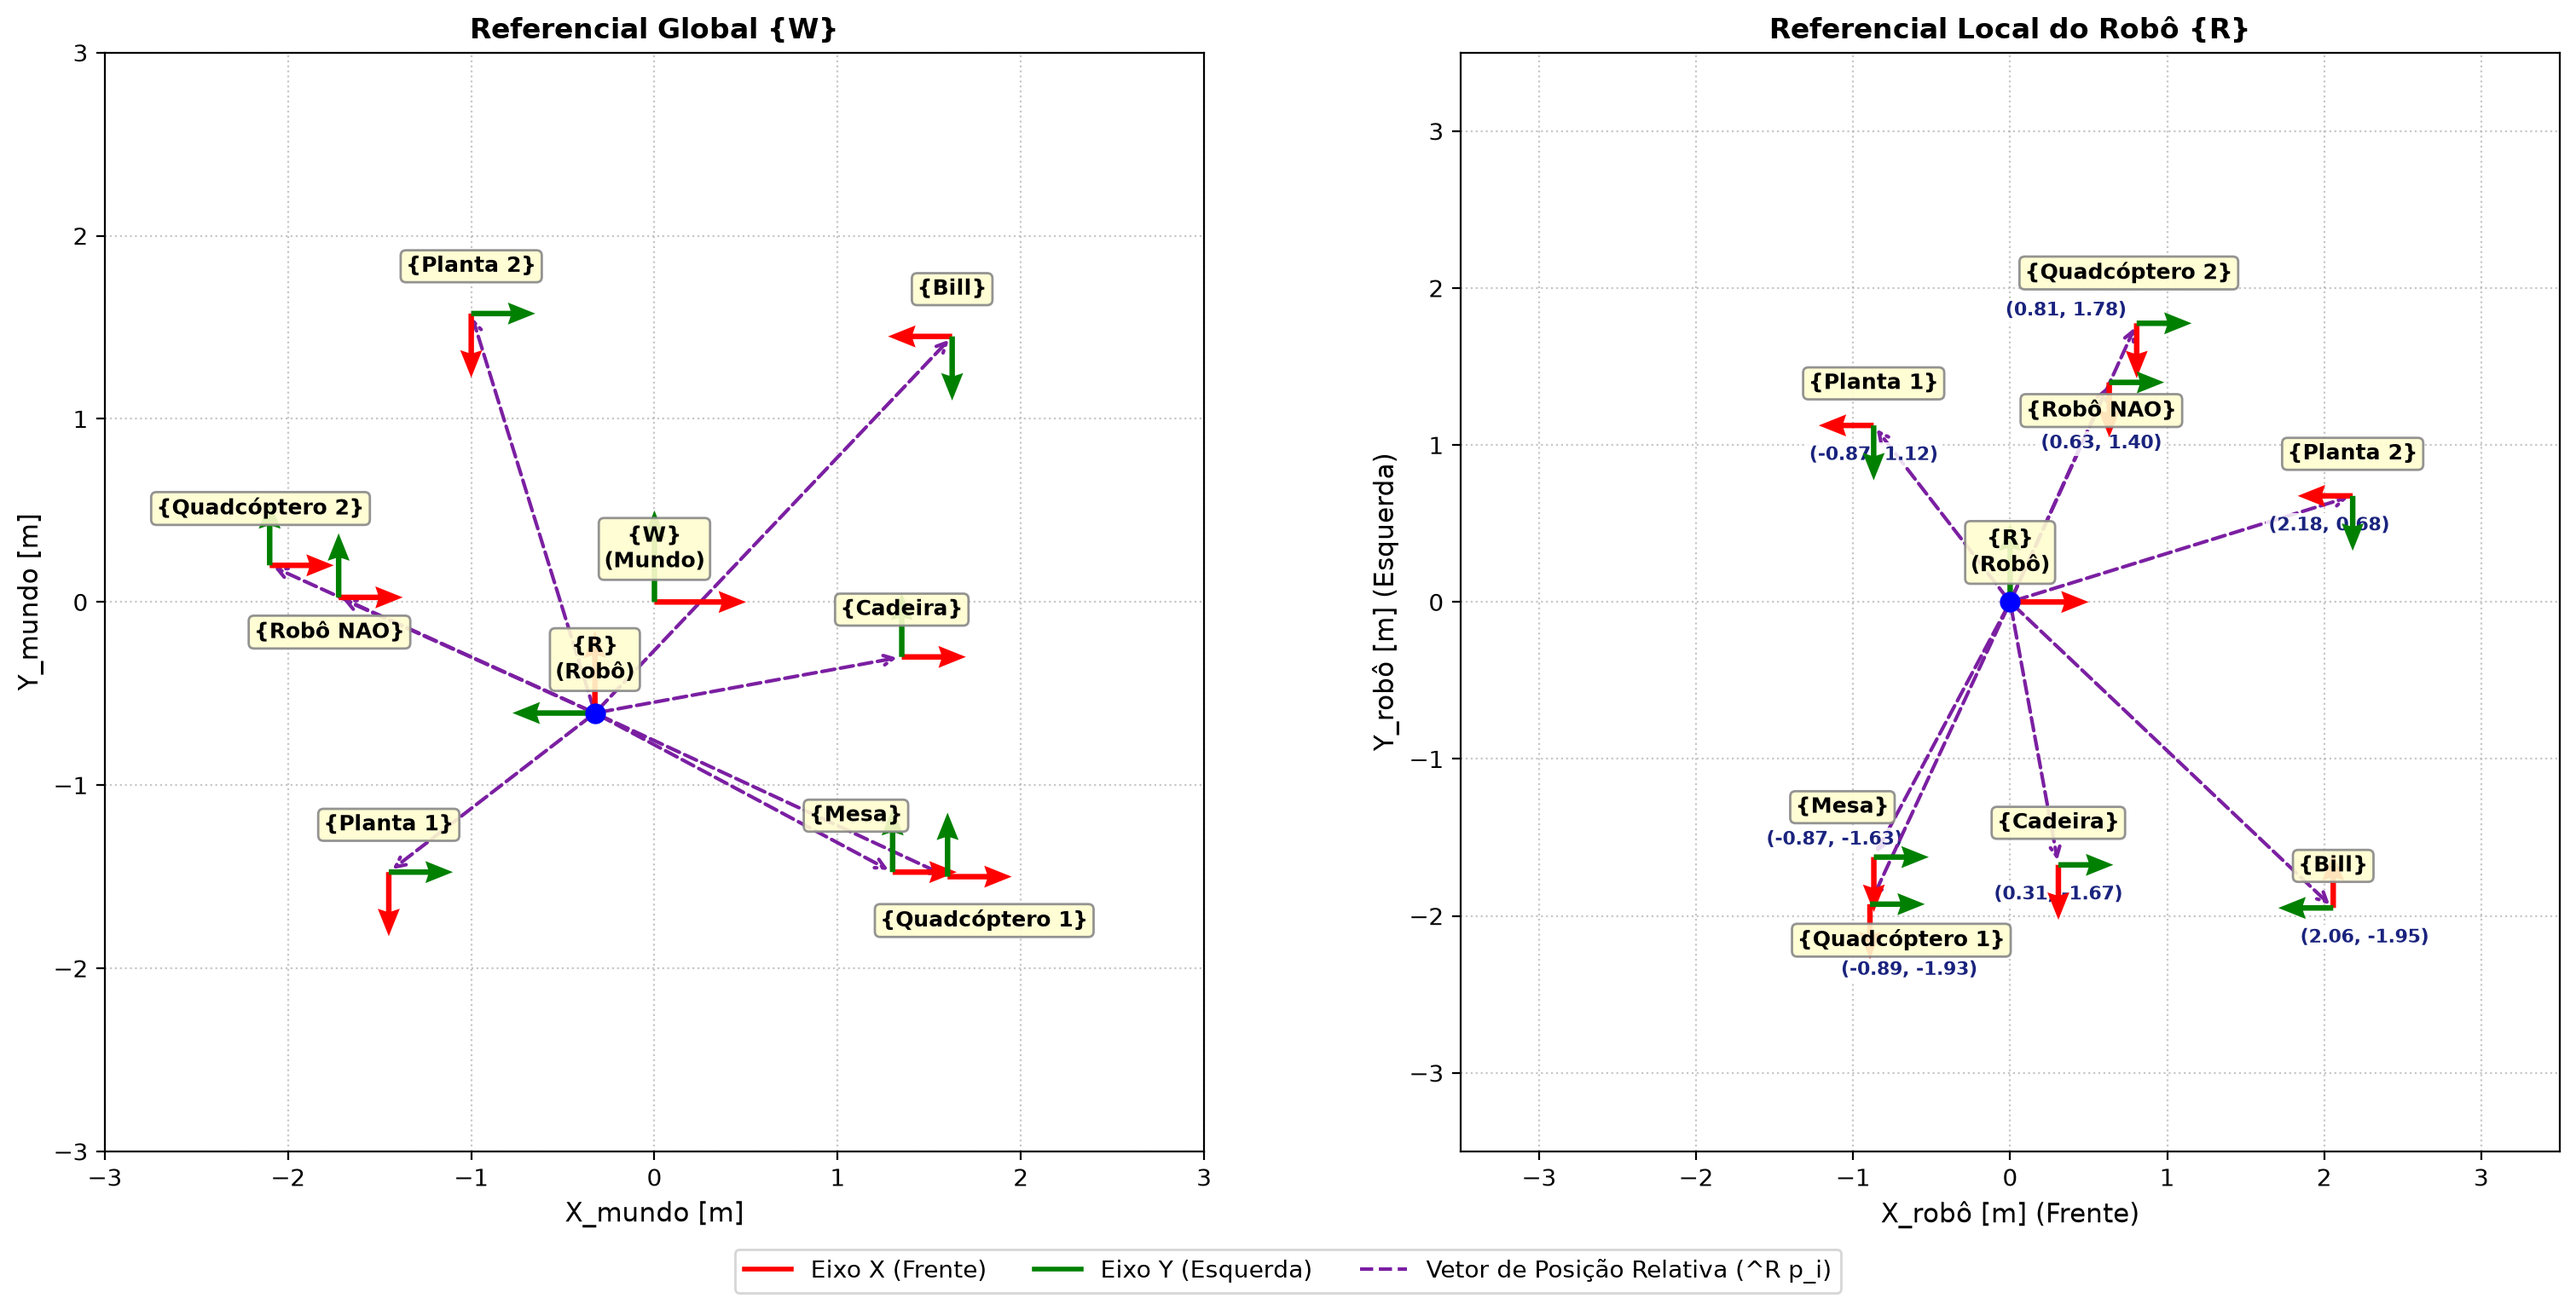
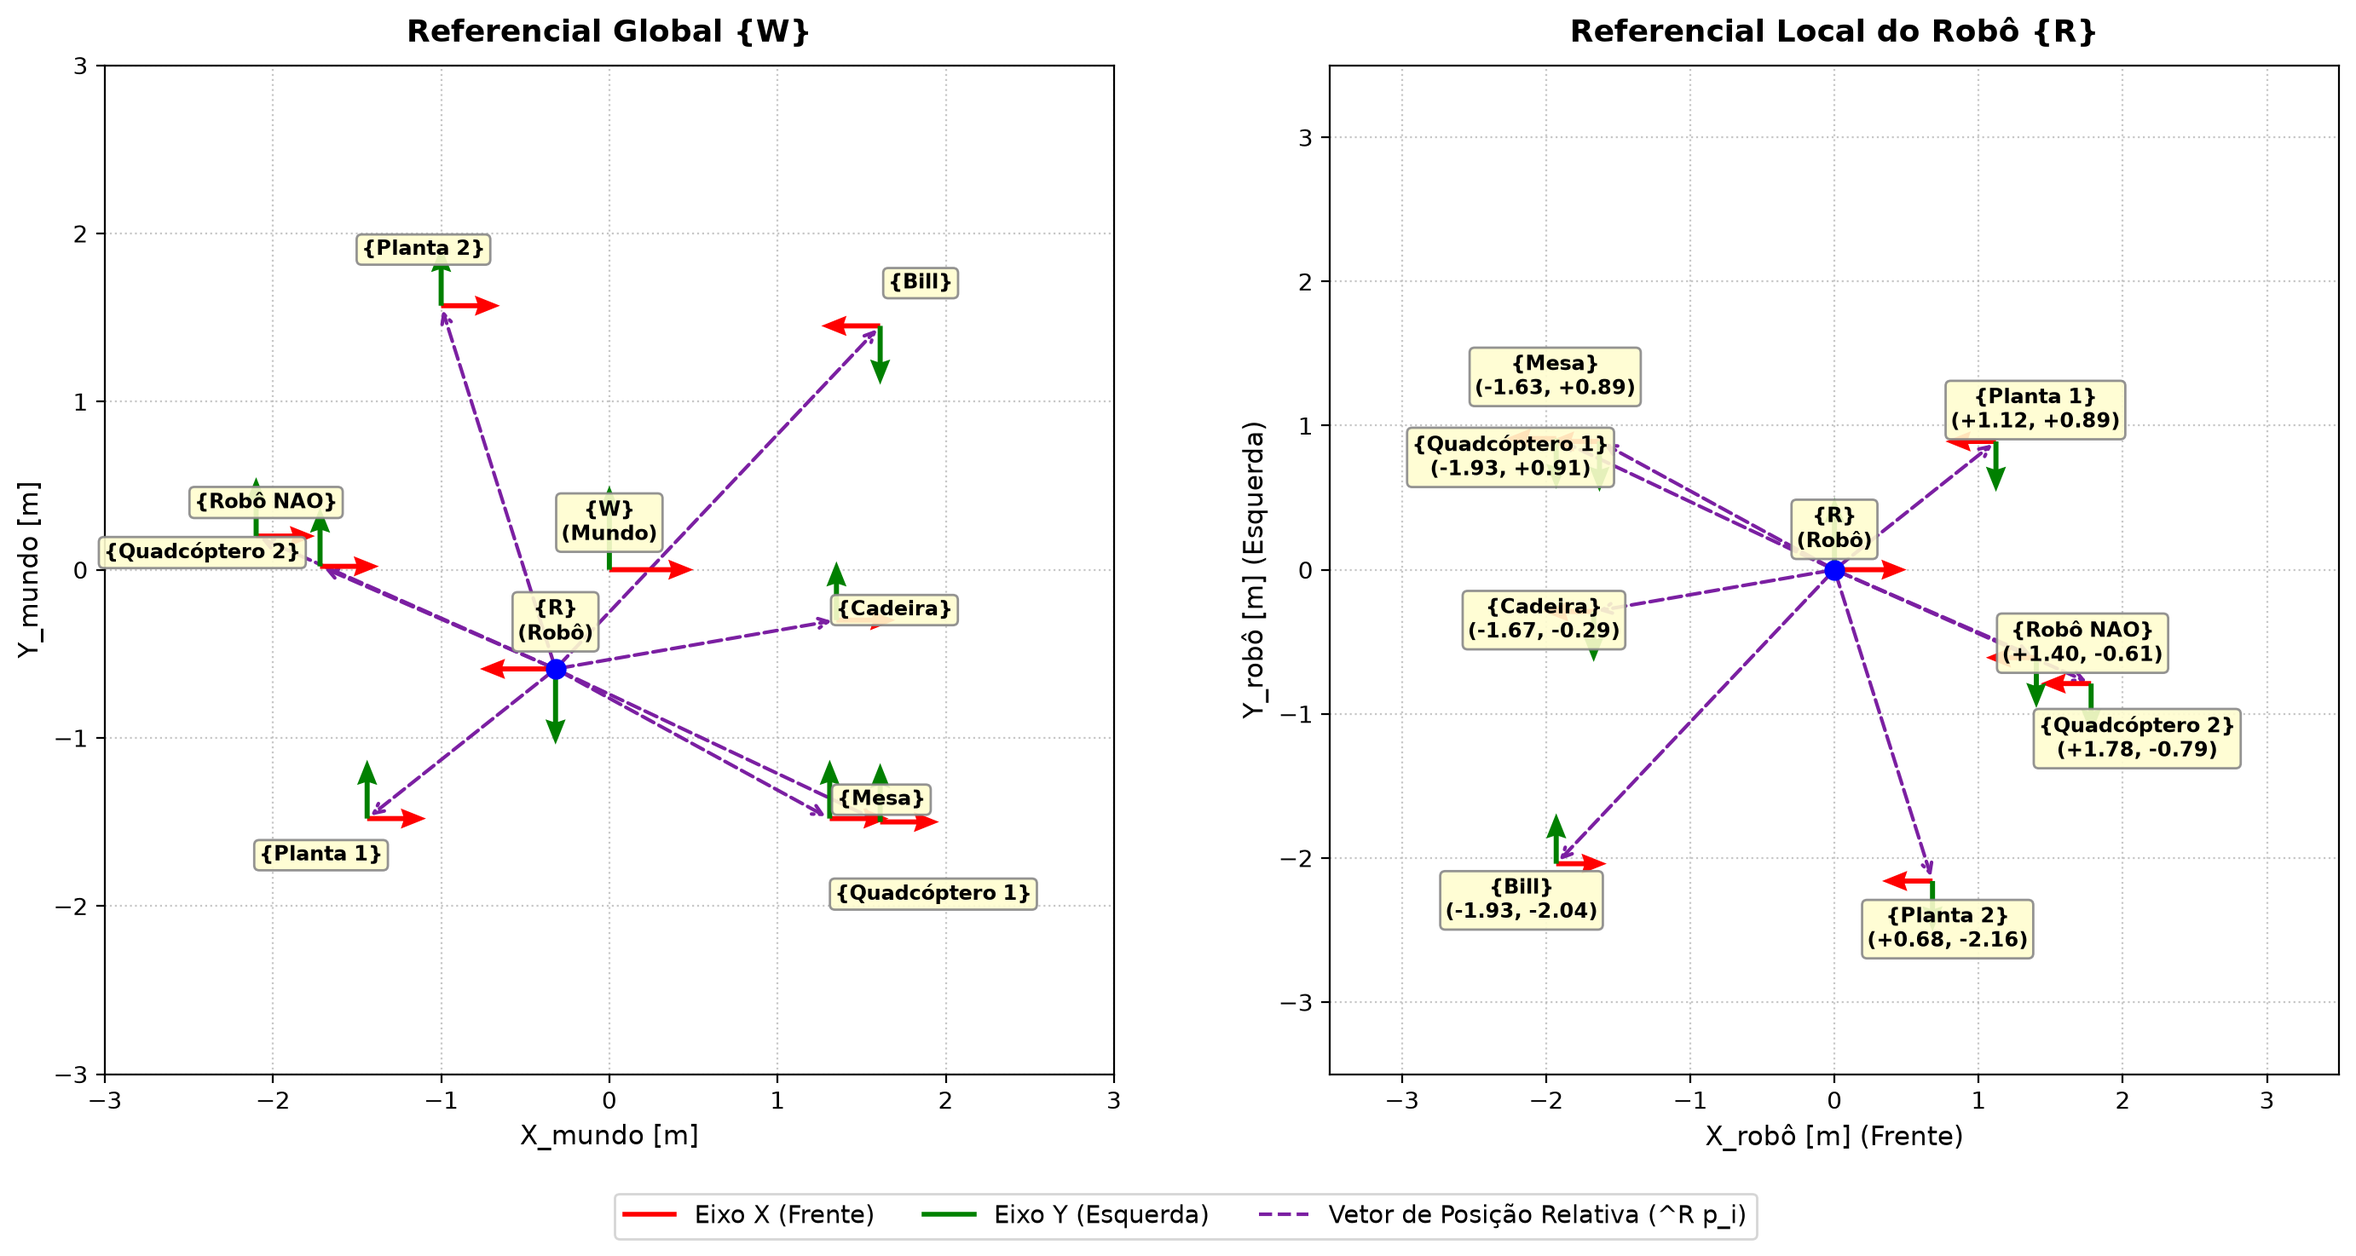
:bug: fix: fix robot positioning relative to World

diff --git a/tp1/main.py b/tp1/main.py
@@ -1,7 +1,9 @@
+import argparse
 import os
 import time
 import numpy as np
 import matplotlib.pyplot as plt
+from matplotlib.lines import Line2D
 from coppeliasim_zmqremoteapi_client import RemoteAPIClient
 
 import utils
@@ -17,21 +19,22 @@ def get_global_pose(sim, handle):
 
 
 def main():
+    parser = argparse.ArgumentParser(description="Transformações Homogêneas - TP1 Robótica Móvel")
+    parser.add_argument("--output", "-o", default="images/questao3.png", help="Caminho do arquivo de saída da imagem")
+    args = parser.parse_args()
+
+    os.makedirs(os.path.dirname(args.output) or ".", exist_ok=True)
+
     # Conexão com o CoppeliaSim via ZeroMQ Remote API
     client = RemoteAPIClient()
     sim = client.require('sim')
 
-    # Garante que o diretório de imagens existe
-    os.makedirs("images", exist_ok=True)
-
-    # Parar simulação se estiver rodando para garantir estado consistente
     initial_sim_state = sim.getSimulationState()
     if initial_sim_state != 0:
         sim.stopSimulation()
         time.sleep(1)
 
-    # Lista de elementos na cena para mapear
-    # Suporta caminhos padrão e variações de indexação no CoppeliaSim
+    # Lista de elementos a serem mapeados na cena
     object_specs = [
         ("Pioneer 3DX (Robô)", ["/PioneerP3DX"]),
         ("Bill", ["/Bill"]),
@@ -59,13 +62,11 @@ def main():
 
     pioneer_handle = handles["Pioneer 3DX (Robô)"]
 
-    # Inicia a simulação
     sim.startSimulation()
     time.sleep(0.5)
 
-    # 1. Recuperar configuração global do robô q = [x, y, theta]
+    # 1. Configuração global e matrizes do robô
     xr, yr, thetar = get_global_pose(sim, pioneer_handle)
-    q_robot = np.array([xr, yr, thetar])
     T_world_robot = utils.homogeneousTransformationMatrix(xr, yr, thetar)
     T_robot_world = utils.inverseHomogeneousMatrix(T_world_robot)
 
@@ -81,21 +82,16 @@ def main():
     print(f"{'Elemento':<22} | {'Posição Global (x, y, theta)':<30} | {'Posição Local no Robô (^R x, ^R y, ^R theta)'}")
     print("-" * 80)
 
-    # 2. Calcular matrizes homogêneas para todos os outros elementos no referencial do robô
+    # 2. Matrizes homogêneas dos outros elementos no referencial do robô
     elements_data = []
-
     for name, handle in handles.items():
         if name == "Pioneer 3DX (Robô)":
             continue
 
-        # Recupera pose global do elemento via ZeroMQ API
         xi, yi, thetai = get_global_pose(sim, handle)
         T_world_elem = utils.homogeneousTransformationMatrix(xi, yi, thetai)
-
-        # Matriz no referencial local do robô: ^R T_elem = (^W T_R)^-1 * ^W T_elem
         T_robot_elem = utils.transformToRobotFrame(T_world_robot, T_world_elem)
 
-        # Extrair posição e orientação locais
         x_local = T_robot_elem[0, 3]
         y_local = T_robot_elem[1, 3]
         theta_local = np.arctan2(T_robot_elem[1, 0], T_robot_elem[0, 0])
@@ -103,8 +99,6 @@ def main():
         elements_data.append({
             "name": name,
             "global_pos": (xi, yi, thetai),
-            "T_world": T_world_elem,
-            "T_robot": T_robot_elem,
             "local_pos": (x_local, y_local, theta_local)
         })
 
@@ -115,103 +109,72 @@ def main():
     print("=" * 80)
 
     # 3. Plotagem dos referenciais e vetores de relacionamento
-    fig, (ax_global, ax_local) = plt.subplots(1, 2, figsize=(16, 7.5))
+    fig, (ax_global, ax_local) = plt.subplots(1, 2, figsize=(17, 8))
 
-    # Dicionário de offsets para os rótulos de modo a evitar sobreposição visual
-    custom_offsets = {
-        "Mesa": (-0.20, 0.25),
-        "Quadcóptero 1": (+0.20, -0.30),
-        "Robô NAO": (-0.05, -0.25),
-        "Quadcóptero 2": (-0.05, 0.25),
-        "Bill": (0.0, 0.20),
-        "Cadeira": (0.0, 0.20),
-        "Planta 1": (0.0, 0.20),
-        "Planta 2": (0.0, 0.20)
-    }
+    # Limites simétricos centrados na origem (evita overflow e mantém o robô centralizado em {R})
+    global_points = [(0, 0), (xr, yr)] + [item["global_pos"][:2] for item in elements_data]
+    local_points = [(0, 0)] + [item["local_pos"][:2] for item in elements_data]
 
-    # --- (A) Gráfico no Referencial Global {W} ---
-    utils.plot_frame([0, 0], 0, ax=ax_global, axis_size=0.5, label="{W}\n(Mundo)", colors=('red', 'green'))
-    utils.plot_frame([xr, yr], thetar, ax=ax_global, axis_size=0.45, label="{R}\n(Robô)", colors=('red', 'green'))
+    L_global = max(3.0, float(np.max(np.abs(global_points))) + 0.6)
+    L_local = max(3.5, float(np.max(np.abs(local_points))) + 0.8)
+
+    # --- (A) Referencial Global {W} ---
+    utils.plot_frame([0, 0], 0, ax=ax_global, axis_size=0.5, label="{W}\n(Mundo)", colors=('red', 'green'), text_offset=(0.0, 0.28))
+    utils.plot_frame([xr, yr], thetar, ax=ax_global, axis_size=0.45, label="{R}\n(Robô)", colors=('red', 'green'), text_offset=(0.0, 0.28))
     ax_global.scatter([xr], [yr], color='blue', s=60, zorder=5)
 
     for item in elements_data:
         xi, yi, thetai = item["global_pos"]
         name = item["name"]
-        offset = custom_offsets.get(name, (0.0, 0.15))
+        offset = utils.get_label_offset(xi, yi, x_ref=xr, y_ref=yr, name=name)
         utils.plot_frame([xi, yi], thetai, ax=ax_global, axis_size=0.35, label=f"{{{name}}}", colors=('red', 'green'), text_offset=offset)
-        # Vetor do Robô para o Elemento
-        ax_global.annotate('', xy=(xi, yi), xytext=(xr, yr),
-                           arrowprops=dict(arrowstyle='->', color='#7B1FA2', lw=1.5, ls='--'))
+        ax_global.annotate('', xy=(xi, yi), xytext=(xr, yr), arrowprops=dict(arrowstyle='->', color='#7B1FA2', lw=1.5, ls='--'))
 
-    ax_global.set_title("Referencial Global {W}", fontsize=12, fontweight='bold')
+    ax_global.set_title("Referencial Global {W}", fontsize=13, fontweight='bold', pad=10)
     ax_global.set_xlabel("X_mundo [m]", fontsize=11)
     ax_global.set_ylabel("Y_mundo [m]", fontsize=11)
     ax_global.grid(True, linestyle=':', alpha=0.7)
     ax_global.set_aspect('equal')
-    ax_global.set_xlim(-3.0, 3.0)
-    ax_global.set_ylim(-3.0, 3.0)
+    ax_global.set_xlim(-L_global, L_global)
+    ax_global.set_ylim(-L_global, L_global)
 
-    # --- (B) Gráfico no Referencial Local do Robô {R} ---
-    # No referencial local do robô, a origem do robô é (0, 0) e orientação é 0 rad
-    utils.plot_frame([0, 0], 0, ax=ax_local, axis_size=0.5, label="{R}\n(Robô)", colors=('red', 'green'))
+    # --- (B) Referencial Local do Robô {R} (Centrado no Robô) ---
+    utils.plot_frame([0, 0], 0, ax=ax_local, axis_size=0.5, label="{R}\n(Robô)", colors=('red', 'green'), text_offset=(0.0, 0.28))
     ax_local.scatter([0], [0], color='blue', s=60, zorder=5)
 
     for item in elements_data:
         x_loc, y_loc, theta_loc = item["local_pos"]
         name = item["name"]
-        offset = custom_offsets.get(name, (0.0, 0.15))
-        utils.plot_frame([x_loc, y_loc], theta_loc, ax=ax_local, axis_size=0.35, label=f"{{{name}}}", colors=('red', 'green'), text_offset=offset)
-        # Vetor da Origem Local do Robô para o Elemento
-        ax_local.annotate('', xy=(x_loc, y_loc), xytext=(0, 0),
-                          arrowprops=dict(arrowstyle='->', color='#7B1FA2', lw=1.5, ls='--'))
-        
-        # Posição personalizada para o texto com coordenadas locais
-        text_dx, text_dy = 0.0, -0.22
-        if "Mesa" in name:
-            text_dx, text_dy = -0.25, 0.08
-        elif "Quadcóptero 1" in name:
-            text_dx, text_dy = +0.25, -0.45
-        elif "Quadcóptero 2" in name:
-            text_dx, text_dy = -0.45, 0.05
-        elif "Robô NAO" in name:
-            text_dx, text_dy = -0.05, -0.42
-        elif "Planta 2" in name:
-            text_dx, text_dy = -0.15, -0.22
-        elif "Bill" in name:
-            text_dx, text_dy = +0.20, -0.22
+        offset = utils.get_label_offset(x_loc, y_loc, x_ref=0, y_ref=0, name=name)
+        label_text = f"{{{name}}}\n({x_loc:+.2f}, {y_loc:+.2f})"
+        utils.plot_frame([x_loc, y_loc], theta_loc, ax=ax_local, axis_size=0.35, label=label_text, colors=('red', 'green'), text_offset=offset, fontsize=8.5)
+        ax_local.annotate('', xy=(x_loc, y_loc), xytext=(0, 0), arrowprops=dict(arrowstyle='->', color='#7B1FA2', lw=1.5, ls='--'))
 
-        ax_local.text(x_loc + text_dx, y_loc + text_dy, f"({x_loc:.2f}, {y_loc:.2f})",
-                      fontsize=8, ha='center', color='#1A237E', fontweight='bold',
-                      bbox=dict(boxstyle='square,pad=0.15', facecolor='white', edgecolor='none', alpha=0.85))
-
-    ax_local.set_title("Referencial Local do Robô {R}", fontsize=12, fontweight='bold')
+    ax_local.set_title("Referencial Local do Robô {R}", fontsize=13, fontweight='bold', pad=10)
     ax_local.set_xlabel("X_robô [m] (Frente)", fontsize=11)
     ax_local.set_ylabel("Y_robô [m] (Esquerda)", fontsize=11)
     ax_local.grid(True, linestyle=':', alpha=0.7)
     ax_local.set_aspect('equal')
-    ax_local.set_xlim(-3.5, 3.5)
-    ax_local.set_ylim(-3.5, 3.5)
+    ax_local.set_xlim(-L_local, L_local)
+    ax_local.set_ylim(-L_local, L_local)
 
-    # Adicionar legenda customizada
-    from matplotlib.lines import Line2D
+    # Legenda centralizada
     legend_elements = [
         Line2D([0], [0], color='red', lw=2, label='Eixo X (Frente)'),
         Line2D([0], [0], color='green', lw=2, label='Eixo Y (Esquerda)'),
         Line2D([0], [0], color='#7B1FA2', lw=1.5, ls='--', label='Vetor de Posição Relativa (^R p_i)')
     ]
-    fig.legend(handles=legend_elements, loc='lower center', ncol=3, fontsize=10, frameon=True, bbox_to_anchor=(0.5, -0.02))
+    fig.legend(handles=legend_elements, loc='lower center', ncol=3, fontsize=10.5, frameon=True, bbox_to_anchor=(0.5, 0.01))
 
-    plt.tight_layout()
-    plt.subplots_adjust(bottom=0.1)
+    plt.subplots_adjust(bottom=0.14)
+    plt.savefig(args.output, dpi=200, bbox_inches='tight')
+    plt.close(fig)
+    print(f"\n[SUCESSO] Gráfico salvo em '{args.output}'")
 
-    output_plot_path = "images/questao3.png"
-    plt.savefig(output_plot_path, dpi=200, bbox_inches='tight')
-    print(f"\n[SUCESSO] Gráfico salvo em '{output_plot_path}'")
-
-    # Para a simulação
     sim.stopSimulation()
 
 
 if __name__ == "__main__":
     main()
+
 

diff --git a/tp1/utils.py b/tp1/utils.py
@@ -38,8 +38,37 @@ def transformToRobotFrame(T_world_robot, T_world_object):
     return T_robot_world @ T_world_object
 
 
+def get_label_offset(x, y, x_ref=0, y_ref=0, name="", base_dist=0.35):
+    """
+    Calcula o deslocamento radial do texto a partir da origem do referencial,
+    com pequenos ajustes para evitar sobreposição em objetos vizinhos na cena.
+    """
+    dx = x - x_ref
+    dy = y - y_ref
+    dist = np.hypot(dx, dy)
+    
+    if dist > 1e-3:
+        off_x = (dx / dist) * base_dist
+        off_y = (dy / dist) * base_dist
+    else:
+        off_x, off_y = 0.0, base_dist
+
+    # Pequenos ajustes para descolar elementos vizinhos na cena
+    if "Mesa" in name:
+        off_y += 0.28
+    elif "Quadcóptero 1" in name:
+        off_y -= 0.28
+    elif "Robô NAO" in name:
+        off_y += 0.24
+    elif "Quadcóptero 2" in name:
+        off_y -= 0.24
+
+    return off_x, off_y
+
+
+
 def plot_frame(origin, orientation_rad, ax=None, axis_size=0.4, label=None, 
-               colors=('red', 'green'), text_offset=(0.0, 0.15)):
+               colors=('red', 'green'), text_offset=(0.0, 0.2), fontsize=8.5):
     """
     Plota um referencial 2D centrado em `origin` com orientação `orientation_rad`.
     Eixo X: Vermelho, Eixo Y: Verde.
@@ -63,5 +92,6 @@ def plot_frame(origin, orientation_rad, ax=None, axis_size=0.4, label=None,
     
     if label:
         ax.text(x0 + text_offset[0], y0 + text_offset[1], label, 
-                fontsize=9, fontweight='bold', ha='center', va='bottom', zorder=6,
+                fontsize=fontsize, fontweight='bold', ha='center', va='center', zorder=6,
                 bbox=dict(boxstyle='round,pad=0.25', facecolor='#FFFDD0', edgecolor='#888888', alpha=0.9))
+

diff --git a/tp1/README.md b/tp1/README.md
@@ -31,16 +31,26 @@ $$^R \theta_i = \theta_i - \theta_R$$
 
 ### 2. Execução do Script
 
-Para executar a solução da Questão 3 e gerar os gráficos:
+Para executar a solução com o **CoppeliaSim** aberto:
 
 ```bash
 cd tp1
-uv run python main.py
+
+# Questão 3 (Cena padrão)
+uv run python main.py --output images/questao3.png
+
+# Questão 4 (Com as respectivas cenas TP1-Cena-q4_p*.ttt abertas no CoppeliaSim)
+uv run python main.py --output images/questao4_p1.png
+uv run python main.py --output images/questao4_p2.png
+uv run python main.py --output images/questao4_p3.png
 ```
 
 O script:
+
 1. Conecta-se à cena do **CoppeliaSim** via **ZeroMQ Remote API** (`coppeliasim_zmqremoteapi_client`).
 2. Recupera as posições e orientações globais de todos os elementos e do robô.
 3. Computa analiticamente as matrizes de transformação homogêneas globais e locais $^R T_i$.
-4. Plota os referenciais de coordenadas (Eixo X em vermelho, Eixo Y em verde) e os vetores de posição relativa.
-5. Salva a figura gerada em `images/questao3.png`.
+4. Calcula limites dinâmicos com proporção 1:1 e resolve automaticamente sobreposições entre caixas de texto.
+5. Plota os referenciais de coordenadas (Eixo X em vermelho, Eixo Y em verde) e os vetores de posição relativa.
+6. Salva a figura gerada no caminho especificado em `--output`.
+
